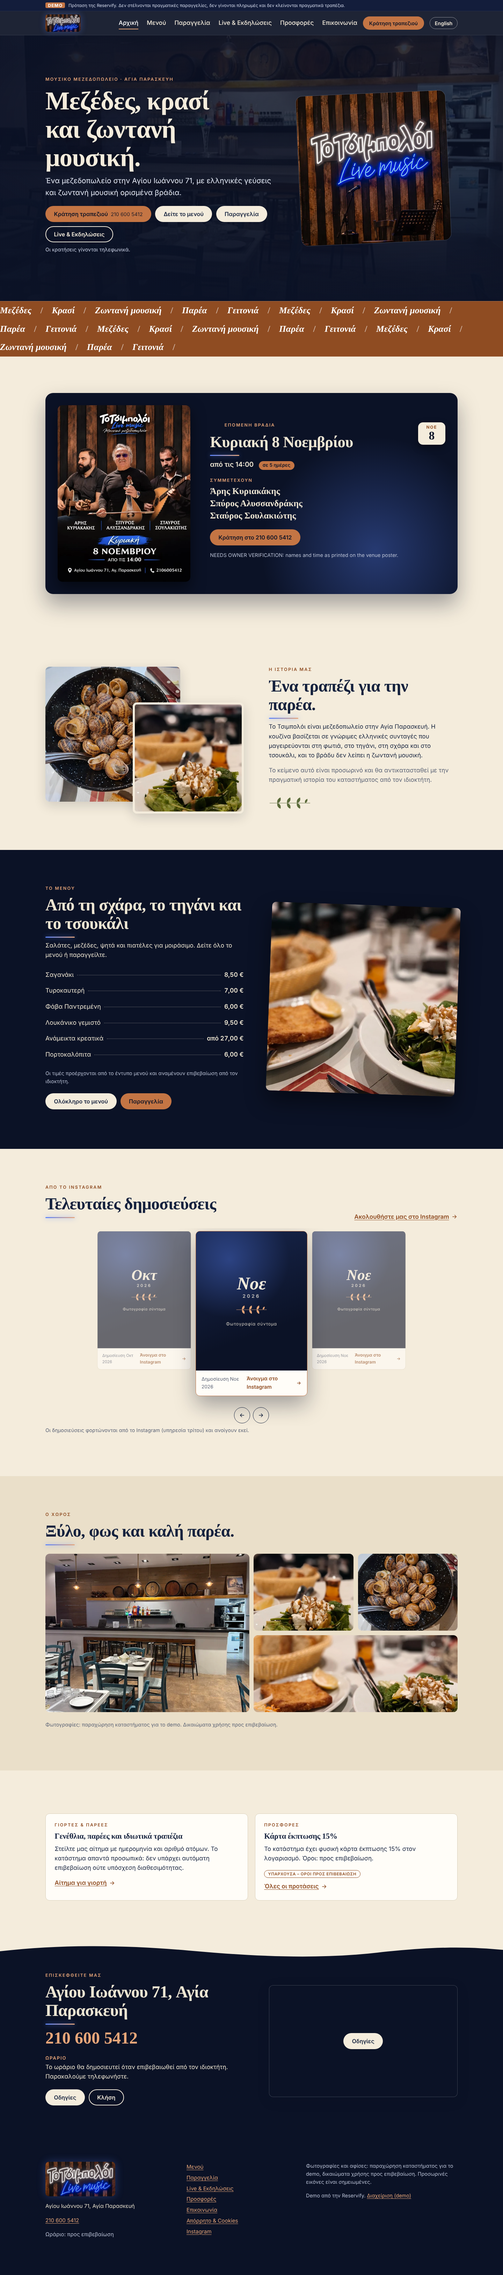
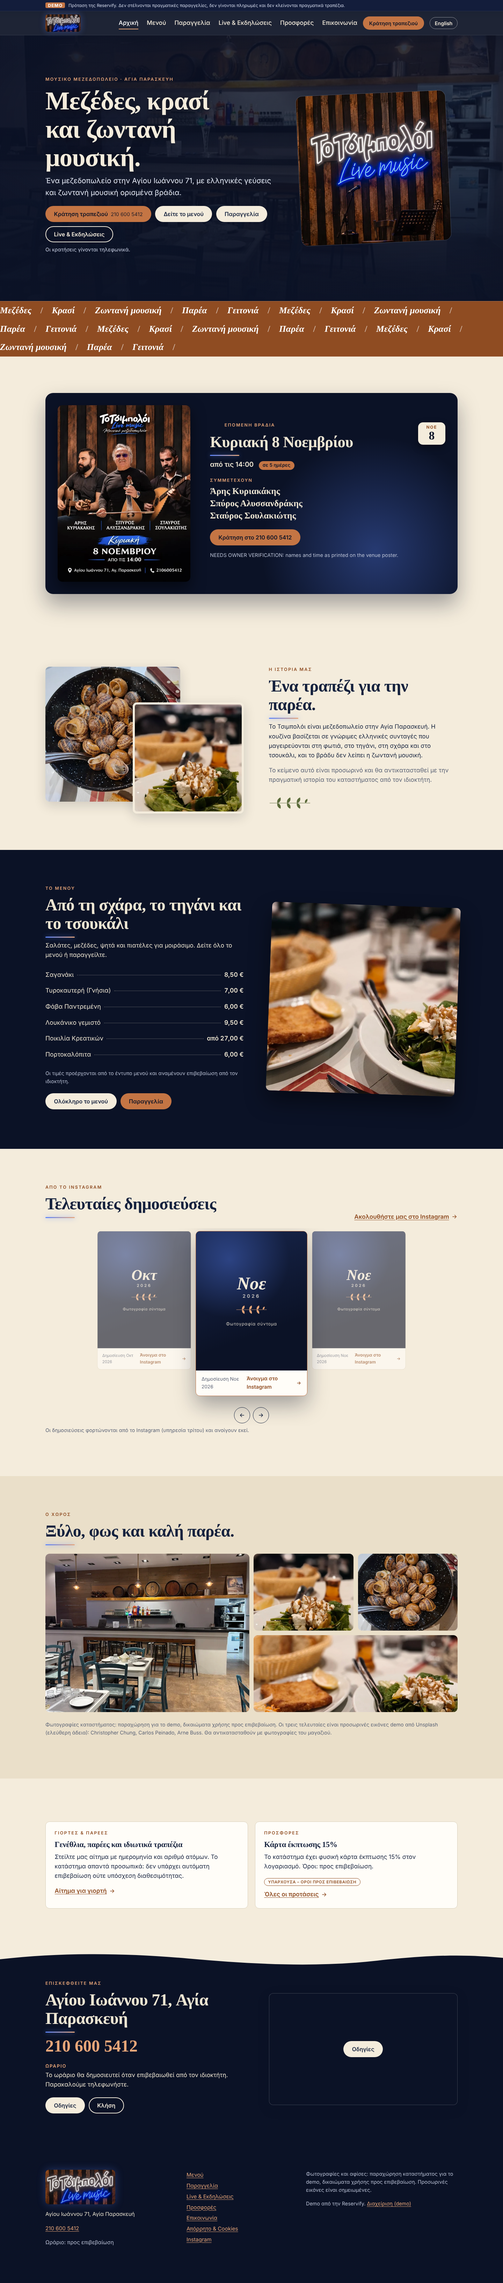
Full menu from the printed menu photos (57 items incl. drinks), temporary Unsplash demo photos with label, order page descriptions
Claude-Session: https://claude.ai/code/session_017TSJS6xdFvpxXD9sdGramY

diff --git a/src/shared/menu-data.js b/src/shared/menu-data.js
@@ -1,7 +1,7 @@
 // MENU DATA - DEMO FIXTURE.
-// Source: owner's printed menu as transcribed in the build brief (photos of the menu were NOT supplied
-// with the build, so every line is unconfirmed). Every item carries verified:false until the owner signs off.
-// No dish descriptions, allergens or dietary labels are invented: they are left empty until verified.
+// Source: the two photos of the owner's printed menu (food sheet + "Τσουγκρίσματα" drinks sheet), transcribed 2026-11-03.
+// Greek names, descriptions and prices are as printed. English text is our translation. Every item keeps verified:false
+// until the owner signs off prices. No allergens or dietary labels are invented.
 //
 // Domain types (JSDoc, kept in one place so a production TypeScript port is mechanical):
 /**
@@ -15,73 +15,123 @@
  * }} MenuItem
  */
 
-/** @type {MenuCategory[]} */
+/** @type {MenuCategory[]} Order follows the printed menus (food sheet, then the "Τσουγκρίσματα" drinks sheet). */
 export const CATEGORIES = [
-  { id: 'salads', order: 1, name: { el: 'Σαλάτες', en: 'Salads' } },
-  { id: 'meze', order: 2, name: { el: 'Μεζέδες', en: 'Meze' } },
-  { id: 'sides', order: 3, name: { el: 'Ψωμί & Συνοδευτικά', en: 'Bread & Sides' } },
-  { id: 'grill', order: 4, name: { el: 'Ψητά', en: 'From the Grill' } },
-  { id: 'platters', order: 5, name: { el: 'Πιατέλες', en: 'Sharing Platters' } },
-  { id: 'desserts', order: 6, name: { el: 'Γλυκά', en: 'Desserts' } },
-  { id: 'drinks', order: 7, name: { el: 'Αναψυκτικά & Νερό', en: 'Soft Drinks & Water' } },
+  { id: 'start', order: 1, name: { el: 'Για το ξεκίνημα', en: 'To start' } },
+  { id: 'salads', order: 2, name: { el: 'Δροσερά Τσιμπολογήματα', en: 'Fresh Salads' } },
+  { id: 'dips', order: 3, name: { el: 'Βουτιές με ψωμάκι', en: 'Dips with Bread' } },
+  { id: 'fire', order: 4, name: { el: 'Στη φωτιά & στο τηγάνι', en: 'From the Fire & the Pan' } },
+  { id: 'grill', order: 5, name: { el: 'Θράκα & Τσουκάλι', en: 'Grill & Clay Pot' } },
+  { id: 'desserts', order: 6, name: { el: 'Γλυκολογήματα', en: 'Desserts' } },
+  { id: 'water', order: 7, name: { el: 'Νερό', en: 'Water' } },
+  { id: 'softs', order: 8, name: { el: 'Αναψυκτικά', en: 'Soft Drinks' } },
+  { id: 'beers', order: 9, name: { el: 'Μπύρες', en: 'Beers' } },
+  { id: 'ouzo', order: 10, name: { el: 'Ούζο', en: 'Ouzo' } },
+  { id: 'tsipouro', order: 11, name: { el: 'Τσίπουρο', en: 'Tsipouro' } },
+  { id: 'wine-carafe', order: 12, name: { el: 'Κρασιά (Βαρελίσια 500ml)', en: 'Wine on tap (500 ml)' } },
+  { id: 'wine-bottle', order: 13, name: { el: 'Κρασιά (Φιάλες)', en: 'Wine by the bottle' } },
+  { id: 'spirits-glass', order: 14, name: { el: 'Αλκοόλ (Ποτήρι)', en: 'Spirits (glass)' } },
+  { id: 'spirits-bottle', order: 15, name: { el: 'Αλκοόλ (Φιάλη)', en: 'Spirits (bottle)' } },
 ];
 
-const sizeGroup = (twoToFourDelta, labelEl2 = '2 άτομα', labelEl4 = '4 άτομα') => [
+/** Two-way choice (the UI shows both prices). priceDelta of option B is relative to the item's base price (= option A). */
+const twoWay = (id, groupEl, groupEn, aEl, aEn, bEl, bEn, delta) => [
   {
-    id: 'size',
-    label: { el: 'Μερίδα', en: 'Serving size' },
+    id,
+    label: { el: groupEl, en: groupEn },
     required: true,
     min: 1,
     max: 1,
     options: [
-      { id: 'p2', label: { el: labelEl2, en: '2 people' }, priceDelta: 0 },
-      { id: 'p4', label: { el: labelEl4, en: '4 people' }, priceDelta: twoToFourDelta },
+      { id: 'p2', label: { el: aEl, en: aEn }, priceDelta: 0 },
+      { id: 'p4', label: { el: bEl, en: bEn }, priceDelta: delta },
     ],
   },
 ];
+const sizeGroup = (delta) => twoWay('size', 'Μερίδα', 'Serving size', '2 άτομα', '2 people', '4 άτομα', '4 people', delta);
+const beerSize = () => twoWay('size', 'Μέγεθος', 'Size', '300ml', '300ml', '500ml', '500ml', 150);
 
+// English names/descriptions are our translation of the printed Greek text (owner to confirm wording).
 const I = (id, cat, el, en, price, extra = {}) => ({
   id, cat, name: { el, en }, price, available: true, verified: false, ...extra,
 });
+const G = (el, en) => ({ gloss: { el, en } });
 
-/** @type {MenuItem[]} price = euro cents */
+/** @type {MenuItem[]} price = euro cents. Transcribed from the two menu photos supplied on 2026-11-03. */
 export const ITEMS = [
+  // To start
+  I('bread', 'start', 'Ψωμί', 'Bread', 120, G('Χειροποίητο χωριάτικο καρβέλι από φυσικό προζύμι, με τραγανή κρούστα και αφράτη ψίχα.', 'Handmade village loaf from natural sourdough, crisp crust and soft crumb.')),
   // Salads
-  I('choriatiki', 'salads', 'Χωριάτικη', 'Village salad (Choriatiki)', 1000),
-  I('politiki', 'salads', 'Πολίτικη', 'Politiki salad', 850),
-  I('tsimboloi-salad', 'salads', 'Σαλάτα Τσιμπολόι', 'Tsimboloi house salad', 1000),
-  // Meze
-  I('tirokafteri', 'meze', 'Τυροκαυτερή', 'Tirokafteri', 700, { gloss: { el: '', en: 'spicy cheese spread' } }),
-  I('tzatziki', 'meze', 'Τζατζίκι', 'Tzatziki', 500),
-  I('fava', 'meze', 'Φάβα Παντρεμένη', 'Fava "Pantremeni"', 600),
-  I('saganaki', 'meze', 'Σαγανάκι', 'Saganaki', 850, { gloss: { el: '', en: 'pan-fried cheese' } }),
-  I('florina-pepper', 'meze', 'Πιπεριά Φλωρίνης', 'Florina pepper', 850),
-  I('stuffed-sausage', 'meze', 'Λουκάνικο γεμιστό', 'Stuffed sausage', 950),
-  I('cheese-croquettes', 'meze', 'Κροκέτες τυριού', 'Cheese croquettes', 700),
-  I('grilled-vegetables', 'meze', 'Λαχανικά σχάρας', 'Grilled vegetables', 800),
-  // Sides
-  I('bread', 'sides', 'Ψωμί', 'Bread', 120),
-  I('fries', 'sides', 'Πατάτες τηγανητές', 'Fries', 450),
-  // Grill
-  I('beef-patties', 'grill', 'Μπιφτέκια μοσχαρίσια', 'Beef burger patties (Biftekia)', 1450),
-  I('pork-fillets', 'grill', 'Χοιρινά φιλέτα', 'Pork fillets', 1400, { note: 'NEEDS OWNER VERIFICATION: exact dish name' }),
-  I('chicken-fillet', 'grill', 'Φιλέτο κοτόπουλο', 'Chicken fillet', 1300),
-  // Platters (price = 2-person price; 4-person via option delta)
-  I('meat-platter', 'platters', 'Ανάμεικτα κρεατικά', 'Mixed meat platter', 2700, { optionGroups: sizeGroup(1200) }),
-  I('cheese-platter', 'platters', 'Πλατό τυριών & αλλαντικών', 'Cheese & cold-cut platter', 1600, { optionGroups: sizeGroup(1100) }),
+  I('choriatiki', 'salads', 'Χωριάτικη', 'Village salad (Choriatiki)', 1000, G('Ντομάτα, αγγούρι, κρεμμύδι, πιπεριά, ελιές, κάπαρη & φέτα.', 'Tomato, cucumber, onion, pepper, olives, capers & feta.')),
+  I('politiki', 'salads', 'Πολίτικη', 'Politiki salad', 850, G('Λάχανο άσπρο & κόκκινο, καρότο, κόλιανδρο, σέλερι, μηλόξυδο και μέλι.', 'White & red cabbage, carrot, coriander, celery, apple vinegar and honey.')),
+  I('tsimboloi-salad', 'salads', 'Τσιμπολόι', 'Tsimboloi house salad', 1000, G('Λόλα, ρόκα, κοτόπουλο φιλέτο, κρουτόν, ρόδι και σος σαμπάνιας.', 'Lollo lettuce, rocket, chicken fillet, croutons, pomegranate and champagne sauce.')),
+  // Dips
+  I('tirokafteri', 'dips', 'Τυροκαυτερή (Γνήσια)', 'Tirokafteri (spicy cheese dip)', 700, G('Φέτα Π.Ο.Π., καυτερή πιπεριά & ελαιόλαδο.', 'PDO feta, hot pepper & olive oil.')),
+  I('tzatziki', 'dips', 'Τζατζίκι', 'Tzatziki', 500, G('Στραγγιστό γιαούρτι, αγγούρι, σκόρδο και καρότο.', 'Strained yoghurt, cucumber, garlic and carrot.')),
+  I('fava', 'dips', 'Φάβα Παντρεμένη', 'Fava "Pantremeni"', 600, G('Φάβα Σαντορίνης, ντοματίνια και κρεμμύδι ξερό.', 'Santorini fava, cherry tomatoes and dry onion.')),
+  // Fire & pan
+  I('saganaki', 'fire', 'Σαγανάκι', 'Saganaki', 850, G('Κεφαλοτύρι με τραγανή κρούστα & λεμόνι.', 'Kefalotyri cheese with a crisp crust & lemon.')),
+  I('fries', 'fire', 'Πατάτες τηγανιτές', 'Fries', 450, G('Φρεσκοκομμένες πατάτες.', 'Freshly cut potatoes.')),
+  I('florina-pepper', 'fire', 'Πιπεριά Φλωρίνης', 'Florina pepper', 850, G('Γεμιστή με φέτα, ξινομυζήθρα και ελιές.', 'Stuffed with feta, xinomyzithra cheese and olives.')),
+  I('stuffed-sausage', 'fire', 'Λουκάνικο γεμιστό', 'Stuffed sausage', 950, G('Γεμιστό με τυρί ροκφόρ και μπέικον.', 'Stuffed with roquefort cheese and bacon.')),
+  I('cheese-croquettes', 'fire', 'Τυροκροκέτες', 'Cheese croquettes', 700, G('Με τσάτνεϊ καρότο.', 'With carrot chutney.')),
+  I('grilled-vegetables', 'fire', 'Ποικιλία ψητών λαχανικών', 'Grilled vegetable selection', 800, G('Πολύχρωμες πιπεριές (κόκκινη, κίτρινη, πράσινη), μελιτζάνες, μανιτάρια πλευρώτους.', 'Colourful peppers (red, yellow, green), aubergines, oyster mushrooms.')),
+  // Grill & clay pot
+  I('beef-patties', 'grill', 'Μπιφτέκια Μοσχαρίσια', 'Beef patties (Biftekia)', 1450, G('Ζουμερά μοσχαρίσια μπιφτέκια με μυρωδικά, συνοδεύεται από φρέσκες πατάτες.', 'Juicy beef patties with herbs, served with fresh potatoes.')),
+  I('pork-fillets', 'grill', 'Χοιρινά Φιλετάκια', 'Pork fillets', 1400, G('Τρυφερά φιλετάκια λαιμού στη σχάρα με μυρωδικά, συνοδεύεται από φρέσκες πατάτες.', 'Tender pork-neck fillets on the grill with herbs, served with fresh potatoes.')),
+  I('chicken-fillet', 'grill', 'Φιλέτο Κοτόπουλο', 'Chicken fillet', 1300, G('Φιλέτο κοτόπουλο στη σχάρα μαριναρισμένο με μπαχαρικά, συνοδεύεται από φρέσκες πατάτες.', 'Grilled chicken fillet marinated in spices, served with fresh potatoes.')),
+  I('meat-platter', 'grill', 'Ποικιλία Κρεατικών', 'Meat platter', 2700, { optionGroups: sizeGroup(1200), ...G('Χοιρινά φιλετάκια, μπιφτέκι μοσχαρίσιο, κοτόπουλο μπούτι φιλέτο, λουκάνικο χωριάτικο, πατάτες τηγανητές.', 'Pork fillets, beef patty, boneless chicken thigh, village sausage, fries.') }),
+  I('cheese-platter', 'grill', 'Ποικιλία Τυριών - Αλλαντικών', 'Cheese & cold-cut platter', 1600, { optionGroups: sizeGroup(1100), ...G('Ελληνικά τυριά και εκλεκτά αλλαντικά, συνοδεύεται από κριτσίνια, μαρμελάδα, ντοματίνια και ελιές.', 'Greek cheeses and fine cold cuts, with breadsticks, jam, cherry tomatoes and olives.') }),
   // Desserts
-  I('orange-pie', 'desserts', 'Πορτοκαλόπιτα', 'Orange pie', 600),
-  I('dessert-of-day', 'desserts', 'Γλυκό ημέρας', 'Dessert of the day', 500, { note: 'Varies daily; owner must set availability' }),
-  // Drinks
-  I('water-1l', 'drinks', 'Νερό 1 L', 'Still water 1 L', 150),
-  I('sparkling-250', 'drinks', 'Ανθρακούχο νερό 250 ml', 'Sparkling water 250 ml', 250),
-  I('cola-250', 'drinks', 'Coca-Cola 250 ml', 'Coca-Cola 250 ml', 250),
-  I('soft-drinks', 'drinks', 'Αναψυκτικά διάφορα', 'Assorted soft drinks', 250, { note: 'NEEDS OWNER VERIFICATION: which flavours' }),
-  I('pink-grapefruit', 'drinks', 'Ροζ γκρέιπφρουτ σόδα', 'Pink grapefruit soda', 350),
+  I('orange-pie', 'desserts', 'Πορτοκαλόπιτα', 'Orange pie', 600, G('Χειροποίητη, μοσχομυριστή, φτιαγμένη με φρέσκα πορτοκάλια.', 'Handmade, fragrant, made with fresh oranges.')),
+  I('dessert-of-day', 'desserts', 'Γλυκό ημέρας', 'Dessert of the day', 500, { ...G('Γλυκές εκπλήξεις ανάλογα με την εποχή και την έμπνευση της κουζίνας μας.', 'Sweet surprises depending on the season and the kitchen\'s inspiration.'), note: 'Varies daily; owner sets availability' }),
+  // Water
+  I('water-1l', 'water', 'Νερό Εμφιαλωμένο 1L', 'Bottled water 1 L', 150),
+  I('water-florina', 'water', 'Ξινό Νερό Φλώρινης 250ml', 'Florina sparkling water 250 ml', 250),
+  // Soft drinks
+  I('cola-250', 'softs', 'Coca Cola Regular / Zero 250ml', 'Coca-Cola Regular / Zero 250 ml', 250),
+  I('fanta-250', 'softs', 'Fanta Πορτοκαλάδα 250ml', 'Fanta Orange 250 ml', 250),
+  I('sprite-250', 'softs', 'Sprite 250ml', 'Sprite 250 ml', 250),
+  I('schweppes-250', 'softs', 'Schweppes Soda 250ml', 'Schweppes Soda 250 ml', 250),
+  I('pink-grapefruit', 'softs', 'Pink Grapefruit Soda 250ml', 'Pink Grapefruit Soda 250 ml', 350),
+  // Beers
+  I('beer-fix-draft', 'beers', 'ΦΙΞ Βαρέλι', 'FIX draught', 350, { optionGroups: beerSize() }),
+  I('beer-carlsberg-draft', 'beers', 'Carlsberg Βαρέλι', 'Carlsberg draught', 350, { optionGroups: beerSize() }),
+  I('beer-fix-500', 'beers', 'ΦΙΞ 500ml', 'FIX 500 ml', 550),
+  I('beer-nisos-500', 'beers', 'Νήσος Pilsner 500ml', 'Nisos Pilsner 500 ml', 550),
+  I('beer-mythos-500', 'beers', 'Mythos 500ml', 'Mythos 500 ml', 470),
+  I('beer-kaiser-500', 'beers', 'Kaiser 500ml', 'Kaiser 500 ml', 550),
+  I('beer-fix-zero-500', 'beers', 'ΦΙΞ Άνευ 500ml', 'FIX Alcohol-free 500 ml', 490),
+  // Ouzo
+  I('ouzo-plomari', 'ouzo', 'Πλωμάρι 200ml', 'Plomari 200 ml', 1000),
+  I('ouzo-varvagianni', 'ouzo', 'Βαρβαγιάννη Πράσινο 200ml', 'Varvagianni Green 200 ml', 1200),
+  // Tsipouro
+  I('tsipouro-apostolaki', 'tsipouro', 'Αποστολάκη 200ml', 'Apostolaki 200 ml', 1100),
+  I('tsipouro-idoniko', 'tsipouro', 'Ηδωνικό 200ml', 'Idoniko 200 ml', 1100),
+  // Wine on tap (500 ml)
+  I('wine-tap-white', 'wine-carafe', 'Λευκό Σαββατιανό-Ροδίτης', 'White Savatiano-Roditis', 650),
+  I('wine-tap-rose', 'wine-carafe', 'Ροζέ Μερλό', 'Rosé Merlot', 700),
+  I('wine-tap-red', 'wine-carafe', 'Ερυθρό Αγιωργίτικο', 'Red Agiorgitiko', 650),
+  I('wine-tap-red-semi', 'wine-carafe', 'Ερυθρό Αγιωργίτικο Ημίγλυκο', 'Red Agiorgitiko semi-sweet', 700),
+  // Wine bottles
+  I('wine-nektar-white', 'wine-bottle', 'Αμπέλου Νέκταρ λευκό', 'Ampelou Nektar white', 1800),
+  I('wine-nektar-red', 'wine-bottle', 'Αμπέλου Νέκταρ ερυθρό', 'Ampelou Nektar red', 1800),
+  I('wine-prorogos-white', 'wine-bottle', 'Πρόρωγος λευκό ημίγλυκο', 'Prorogos white semi-sweet', 2200),
+  I('wine-prorogos-red', 'wine-bottle', 'Πρόρωγος ερυθρό ημίγλυκο', 'Prorogos red semi-sweet', 2200),
+  I('wine-prorogos-rose', 'wine-bottle', 'Πρόρωγος ροζέ ημίγλυκο', 'Prorogos rosé semi-sweet', 2200),
+  I('wine-lazaridi-white', 'wine-bottle', 'NICO LAZARIDI Ντάμα Κούπα λευκό', 'Nico Lazaridi Dama Koupa white', 3000),
+  I('wine-lazaridi-red', 'wine-bottle', 'NICO LAZARIDI Ρήγας Κούπα ερυθρό', 'Nico Lazaridi Rigas Koupa red', 3000),
+  I('wine-belrose', 'wine-bottle', 'Belrose Mediterranee ροζέ', 'Belrose Mediterranee rosé', 3200, { note: 'Marked *** on the printed menu' }),
+  // Spirits by the glass
+  I('spirit-glass-simple', 'spirits-glass', 'Απλό', 'Standard', 700),
+  I('spirit-glass-special', 'spirits-glass', 'Special', 'Special', 1000),
+  I('spirit-glass-premium', 'spirits-glass', 'Premium', 'Premium', 1200),
+  I('spirit-shot', 'spirits-glass', 'Σφηνάκι', 'Shot', 250),
+  // Spirits by the bottle
+  I('spirit-bottle-simple', 'spirits-bottle', 'Απλή', 'Standard', 7000),
+  I('spirit-bottle-special', 'spirits-bottle', 'Special', 'Special', 10000),
+  I('spirit-bottle-premium', 'spirits-bottle', 'Premium', 'Premium', 12000),
 ];
-
-/** Beers, wines and spirits are intentionally absent: they were not legible/available to transcribe. */
-export const NOT_TRANSCRIBED = ['beers', 'wines', 'tsipouro / raki / spirits', 'coffee & hot drinks (if any)'];
 
 export const MENU = { categories: CATEGORIES, items: ITEMS };
 

diff --git a/src/shared/strings.js b/src/shared/strings.js
@@ -29,7 +29,7 @@ export const S = {
       sigTitle: 'Μεζέδες για να μοιραστείτε',
       sigNote: 'Οι τιμές προέρχονται από το έντυπο μενού και αναμένουν επιβεβαίωση από τον ιδιοκτήτη.',
       sigAll: 'Ολόκληρο το μενού',
-      photoCredit: 'Φωτογραφίες: παραχώρηση καταστήματος για το demo. Δικαιώματα χρήσης προς επιβεβαίωση.',
+      photoCredit: 'Φωτογραφίες καταστήματος: παραχώρηση για το demo, δικαιώματα χρήσης προς επιβεβαίωση. Οι τρεις τελευταίες είναι προσωρινές εικόνες demo από Unsplash (ελεύθερη άδεια): Christopher Chung, Carlos Peinado, Arne Buss. Θα αντικατασταθούν με φωτογραφίες του μαγαζιού.',
       musicKicker: 'Ζωντανή μουσική',
       musicTitle: 'Όταν παίζει μουσική, το τραπέζι γίνεται γλέντι.',
       musicP: 'Δημοσίευση του Ιουνίου 2026 αναφέρει ζωντανή ελληνική μουσική σχεδόν κάθε Παρασκευοσαββατοκύριακο. Το πρόγραμμα θα ανακοινώνεται εδώ, όταν το επιβεβαιώσει το κατάστημα.',
@@ -53,7 +53,7 @@ export const S = {
       desc: 'Το μενού του Τσιμπολόι: σαλάτες, μεζέδες, ψητά, πιατέλες, γλυκά και αναψυκτικά. Τιμές σε ευρώ.',
       h1: 'Μενού',
       lead: 'Μεζέδες, ψητά και πιατέλες για μοιράσιμο.',
-      pricesNote: 'Οι τιμές και τα πιάτα προέρχονται από το έντυπο μενού και αναμένουν επιβεβαίωση από τον ιδιοκτήτη. Ποτά (μπύρες, κρασιά, τσίπουρο και άλλα) θα προστεθούν μετά από έλεγχο.',
+      pricesNote: 'Οι τιμές και τα πιάτα προέρχονται από το έντυπο μενού και αναμένουν επιβεβαίωση από τον ιδιοκτήτη. Οι τιμές συμπεριλαμβάνουν ΦΠΑ και κάθε φόρο. Παρακαλούμε ενημερώστε το προσωπικό για τυχόν αλλεργίες πριν από την παραγγελία σας.',
       allergenTitle: 'Αλλεργιογόνα',
       allergenText: 'Οι ενδείξεις αλλεργιογόνων και διατροφικών επιλογών δεν έχουν ακόμη επιβεβαιωθεί. Αν έχετε αλλεργία ή δυσανεξία, ενημερώστε το προσωπικό πριν παραγγείλετε.',
       categories: 'Κατηγορίες μενού',
@@ -242,7 +242,7 @@ export const S = {
       sigTitle: 'Meze to share',
       sigNote: 'Prices come from the printed menu and are awaiting owner confirmation.',
       sigAll: 'The full menu',
-      photoCredit: 'Photos: supplied by the venue for this demo. Usage rights to be confirmed.',
+      photoCredit: 'Venue photos: supplied for this demo, usage rights to be confirmed. The last three are temporary demo images from Unsplash (free licence): Christopher Chung, Carlos Peinado, Arne Buss. They will be replaced with the venue\'s own photos.',
       musicKicker: 'Live music',
       musicTitle: 'When the music plays, dinner turns into a celebration.',
       musicP: 'A June 2026 review mentions live Greek music at most weekends. The schedule will be announced here once the venue confirms it.',
@@ -266,7 +266,7 @@ export const S = {
       desc: 'The To Tsimboloi menu: salads, meze, grilled dishes, sharing platters, desserts and soft drinks. Prices in euro.',
       h1: 'Menu',
       lead: 'Meze, grilled dishes and platters to share.',
-      pricesNote: 'Prices and dishes come from the printed menu and are awaiting owner confirmation. Drinks (beer, wine, tsipouro and more) will be added after checking.',
+      pricesNote: 'Prices and dishes come from the printed menu and are awaiting owner confirmation. Prices include VAT and all taxes. Please tell staff about any allergies before ordering.',
       allergenTitle: 'Allergens',
       allergenText: 'Allergen and dietary labels have not been verified yet. If you have an allergy or intolerance, tell the staff before ordering.',
       categories: 'Menu categories',

diff --git a/src/site/render.js b/src/site/render.js
@@ -193,7 +193,12 @@ const gallery = (c, lang) => [
   ['salad-feta.webp', lang === 'el' ? 'Σαλάτα με φέτα' : 'Salad with feta', ''],
   ['pan-snails.webp', lang === 'el' ? 'Πιάτο που σερβίρεται σε τηγάνι' : 'A dish served in a pan', ''],
   ['plates-salad.webp', lang === 'el' ? 'Πιάτα μεζέδων στο τραπέζι' : 'Meze plates on the table', 'g-wide'],
-].map(([f, alt, cls]) => `<figure class="g-item ${cls} reveal"><img src="${c.base}/images/${f}" alt="${esc(alt)}" loading="lazy" width="900" height="900"></figure>`).join('');
+].map(([f, alt, cls]) => `<figure class="g-item ${cls} reveal"><img src="${c.base}/images/${f}" alt="${esc(alt)}" loading="lazy" width="900" height="900"></figure>`).join('')
+  + [
+    ['photo-1763647818263-62a9256f097c', lang === 'el' ? 'Πιατέλα με ψητά κρέατα, πατάτες και ελιές (προσωρινή εικόνα demo)' : 'Platter of grilled meats, fries and olives (temporary demo image)', ''],
+    ['photo-1706529145326-ddae87c0aafb', lang === 'el' ? 'Φαγητό και μπύρα στο τραπέζι, Αθήνα (προσωρινή εικόνα demo)' : 'Food and a beer on a table, Athens (temporary demo image)', ''],
+    ['photo-1777199264017-84af9308a41f', lang === 'el' ? 'Κρεμώδες ντιπ με αγγούρι και ελιά (προσωρινή εικόνα demo)' : 'Creamy dip with cucumber and an olive (temporary demo image)', 'g-wide'],
+  ].map(([id, alt, cls]) => `<figure class="g-item g-ext ${cls} reveal"><img data-ext="https://images.unsplash.com/${id}?auto=format&fit=crop&w=1000&h=800&q=75" alt="${esc(alt)}" loading="lazy" width="1000" height="800"><span class="demo-tag">${lang === 'el' ? 'Προσωρινή εικόνα demo' : 'Temporary demo image'}</span></figure>`).join('');
 
 function homePage(c, lang) {
   const { upcoming } = splitEvents(EVENTS, c.now);

diff --git a/src/client/order.js b/src/client/order.js
@@ -99,7 +99,7 @@ function renderMenu() {
     const items = menu.items.filter((i) => i.cat === c.id).map((i) => {
       const from = i.optionGroups?.length ? `${T('menu.from')} ` : '';
       const img = images[`item:${i.id}`];
-      return `<div class="o-item"><div class="thumb" ${img ? '' : 'hidden'}>${img ? `<img src="${esc(img)}" alt="" loading="lazy">` : ''}</div><div class="grow"><div class="nm">${esc(L(i.name, lang))}</div><div class="pr">${from}${esc(eur(i.price, lang))}${i.available ? '' : ` · <span class="sold">${esc(T('order.soldoutNote'))}</span>`}</div></div>
+      return `<div class="o-item"><div class="thumb" ${img ? '' : 'hidden'}>${img ? `<img src="${esc(img)}" alt="" loading="lazy">` : ''}</div><div class="grow"><div class="nm">${esc(L(i.name, lang))}</div>${i.gloss?.[lang] ? `<div class="gl">${esc(i.gloss[lang])}</div>` : ''}<div class="pr">${from}${esc(eur(i.price, lang))}${i.available ? '' : ` · <span class="sold">${esc(T('order.soldoutNote'))}</span>`}</div></div>
       <button class="btn btn-ghost btn-sm" type="button" data-add="${i.id}" ${i.available ? '' : 'disabled'} aria-label="${esc(T('order.add'))}: ${esc(L(i.name, lang))}">${esc(T('order.add'))}</button></div>`;
     }).join('');
     return items ? `<section class="o-cat" id="o-${c.id}"><h2>${esc(L(c.name, lang))}</h2>${items}</section>` : '';

diff --git a/src/client/app.js b/src/client/app.js
@@ -51,6 +51,14 @@ if (head) {
   on();
 }
 
+// Temporary demo photos (Unsplash, free licence) are loaded from Unsplash by the visitor's browser; a failed load hides the tile.
+if (storage.get('tsb.embeds', 'on') !== 'off') {
+  $$('img[data-ext]').forEach((img) => {
+    img.addEventListener('error', () => { img.closest('figure').hidden = true; });
+    img.src = img.dataset.ext;
+  });
+} else $$('img[data-ext]').forEach((img) => { img.closest('figure').hidden = true; });
+
 // Google map embed (owner-supplied). Lazy; the directions link stays as the fallback.
 if (storage.get('tsb.embeds', 'on') !== 'off') {
   $$('[data-map]').forEach((box) => {

diff --git a/src/styles/site.css b/src/styles/site.css
@@ -375,3 +375,7 @@ fieldset{border:0;padding:0;margin:0}
 .cf .post:hover{transform:translateX(calc(-50% + var(--x,0px))) scale(var(--s,1))}
 .cf .car-ctl{justify-content:center;margin-top:.5rem}
 .post.embedded .post-media{aspect-ratio:auto;height:560px}
+
+.g-ext{position:relative}.g-ext img{width:100%;height:100%;object-fit:cover}
+.demo-tag{position:absolute;left:.5rem;bottom:.5rem;font:600 .68rem var(--sans);letter-spacing:.06em;text-transform:uppercase;background:rgba(11,18,38,.82);color:#f4ecdc;padding:.25rem .55rem;border-radius:999px}
+.o-item .gl{font-size:.82rem;color:var(--muted);line-height:1.35;margin:.15rem 0 .2rem;max-width:46ch}
